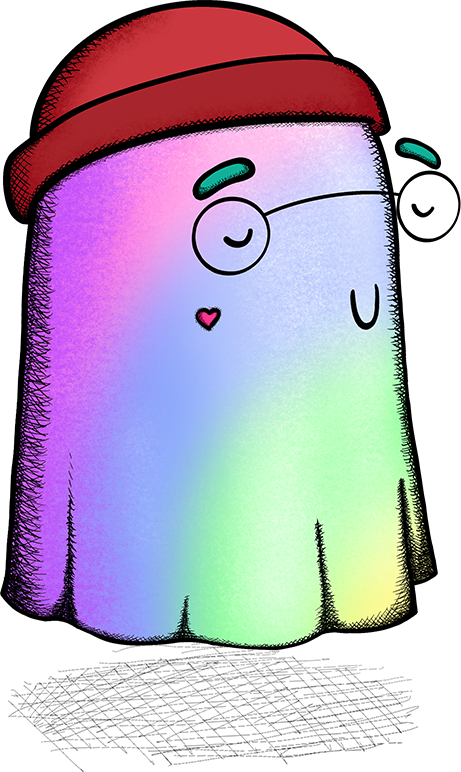
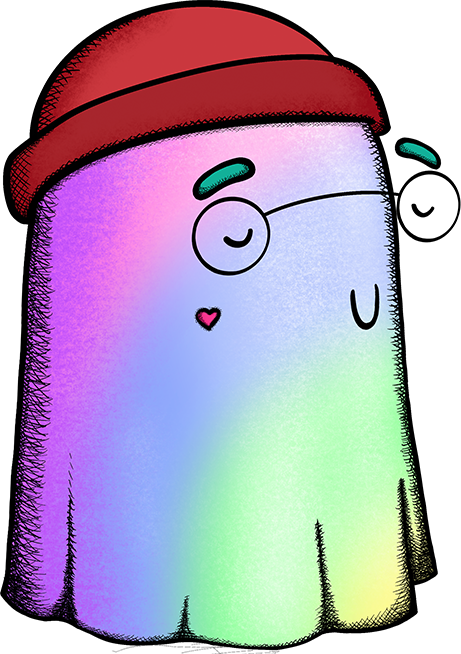
Add movivement to ghost

diff --git a/styles.css b/styles.css
@@ -68,6 +68,7 @@ h4 {
 }*/
 
 .content {
+	position: relative;
 	margin: 40px;
 	text-shadow: 0px 1px 0px rgba(63,107,169, 0.5);
 	padding-bottom: 40px;
@@ -113,6 +114,21 @@ h4 {
 	margin: 80px auto;
 }
 
+.hero {
+	position: absolute;
+  	top: 70%;
+  	left: 50%;
+  	-ms-transform: translateY(-50%);
+  	transform: translateY(-50%);
+  	-ms-transform: translateX(-50%);
+  	transform: translateX(-50%);
+}
+
+.ghost {
+	transform: translatey(0px);
+	animation: float 3s ease-in-out infinite;
+}
+
 /* Medium devices (landscape tablets, 768px and up) */
 @media only screen and (max-width: 768px) {
 	header ul {display: none;}
@@ -130,3 +146,19 @@ h4 {
 		width: 100%;
 	}
 } 
+
+
+@keyframes float {
+	0% {
+		/*box-shadow: 0 5px 15px 0px rgba(0,0,0,0.6);*/
+		transform: translatey(0px);
+	}
+	50% {
+		/*box-shadow: 0 25px 15px 0px rgba(0,0,0,0.2);*/
+		transform: translatey(-10px);
+	}
+	100% {
+		/*box-shadow: 0 5px 15px 0px rgba(0,0,0,0.6);*/
+		transform: translatey(0px);
+	}
+}

diff --git a/index.html b/index.html
@@ -36,12 +36,16 @@
         </header>
 
       <div id="about-us" class="content">
-        <img src="images/boo_ghost.png" alt="Boo Things Ghost" width="150" />
+        <div class="hero">
+          <img class="boo_ghost ghost" src="images/boo_ghost.png" alt="Boo Things Ghost" width="150" />
+          <br />
+          <img class="boo_ghost shadow" src="images/shadow.png" alt="Boo Things Ghost shadow" width="150" />
 
-        <h4>A free NFT experience for everyone</h4>
+          <h4>A free NFT experience for everyone</h4>
 
-        <div class="round_button">
-            Minting Date TBA  
+          <div class="round_button">
+              Minting Date TBA  
+          </div>
         </div>
       </div>
 
